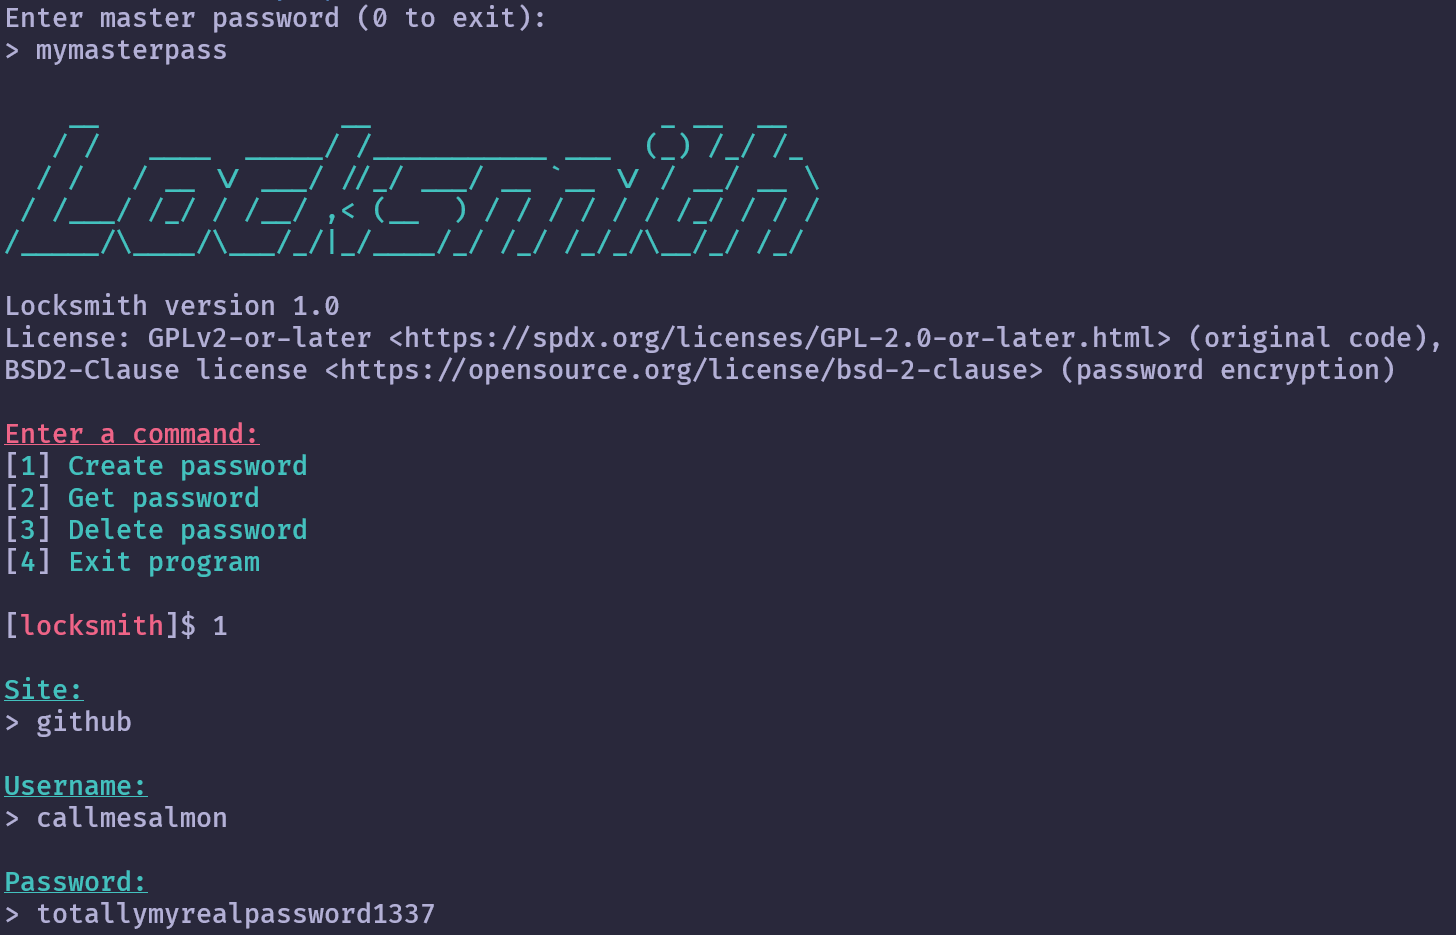
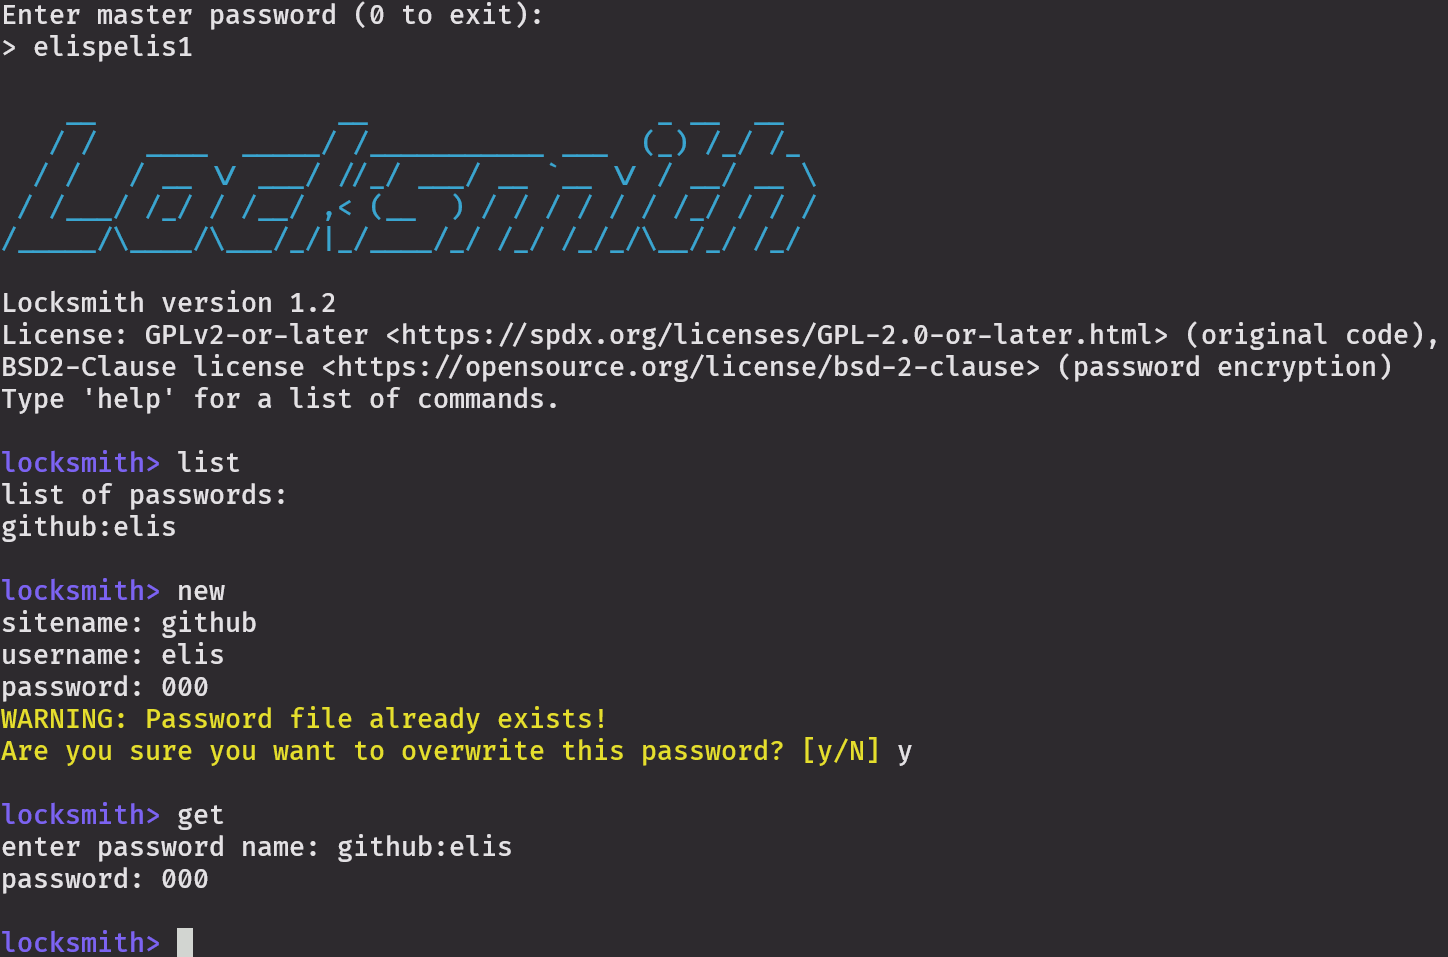
big formatting change (also add new listing command)

diff --git a/src/cli.c b/src/cli.c
@@ -12,9 +12,10 @@
 #include "colors.h"
 
 #define LIST_OF_COMMANDS          \
-"new - create new password\n"     \
-"get - get password\n"            \
-"del - delete password\n"      \
+"new  - create new password\n"    \
+"get  - get password\n"           \
+"del  - delete password\n"        \
+"list - list passwords\n"         \
 "exit - exit command interface\n" \
 "help - show this text\n"         \
 
@@ -40,6 +41,7 @@ typedef enum {
     CMD_NEW,
     CMD_GET,
     CMD_DEL,
+    CMD_LIST,
     CMD_EXIT,
     CMD_HELP,
 
@@ -51,6 +53,7 @@ CommandList get_cmd_value(char str[MAX_STRING_LEN]) {
     if (!strcmp(str, "new"))  return CMD_NEW;
     if (!strcmp(str, "get"))  return CMD_GET;
     if (!strcmp(str, "del"))  return CMD_DEL;
+    if (!strcmp(str, "list")) return CMD_LIST;
     if (!strcmp(str, "exit")) return CMD_EXIT;
     if (!strcmp(str, "help")) return CMD_HELP;
     if (!strcmp(str, ""))     return EMPTY;
@@ -78,16 +81,13 @@ int passname_handler(char *passname) {
 int cmd_create_password() {
     char site_name[MAX_STRING_LEN], user_name[MAX_STRING_LEN], password[MAX_STRING_LEN];
 
-    printf("\nSitename: ");
-    printf(LOCKSMITH_PROMPT2);
+    printf("sitename: ");
     safe_scanf(MAX_STRING_LEN, "%s", site_name);
 
-    printf("\nUsername: ");
-    printf(LOCKSMITH_PROMPT2);
+    printf("username: ");
     safe_scanf(MAX_STRING_LEN, "%s", user_name);
 
-    printf("\nPassword: ");
-    printf(LOCKSMITH_PROMPT2);
+    printf("password: ");
     safe_scanf(MAX_STRING_LEN, "%s", password);
 
     // This is not a good implementation. In reality we should just remove
@@ -114,9 +114,7 @@ int cmd_create_password() {
 int cmd_get_password() {
     char pass_name[MAX_STRING_LEN];
 
-    printf("\nWhat password do you want to get?\n");
-    list_passwords();
-    printf(LOCKSMITH_PROMPT2);
+    printf("enter password name: ");
     safe_scanf(MAX_STRING_LEN, "%s", pass_name);
 
     if (!passname_handler(pass_name)) {
@@ -125,7 +123,7 @@ int cmd_get_password() {
         return 1;
     }
 
-    printf_color(UNDERLINE_WHITE, "Password:");
+    printf("password:");
     printf(" %s\n", get_password(pass_name, key));
 
     return 0;
@@ -134,10 +132,7 @@ int cmd_get_password() {
 int cmd_delete_password() {
     char pass_name[MAX_STRING_LEN];
 
-    printf("\nWhat password do you want to delete?\n");
-    list_passwords();
-    printf(LOCKSMITH_PROMPT2);
-    printf(">");
+    printf("enter password name: ");
     safe_scanf(MAX_STRING_LEN, "%s", pass_name);
 
     if (!passname_handler(pass_name)) {
@@ -151,8 +146,15 @@ int cmd_delete_password() {
     return 0;
 }
 
+int cmd_list_passwords() {
+    printf("list of passwords:\n");
+    list_passwords();
+
+    return 0;
+}
+
 int cmd_interface(int *exit) {
-    printf(LOCKSMITH_PROMPT1);
+    printf(LOCKSMITH_PROMPT);
 
     char command[MAX_STRING_LEN];
     command[0] = '\0'; // Make sure command is empty.
@@ -168,6 +170,9 @@ int cmd_interface(int *exit) {
             break;
         case CMD_DEL:
             cmd_delete_password();
+            break;
+        case CMD_LIST:
+            cmd_list_passwords();
             break;
         case CMD_HELP:
             printf(LIST_OF_COMMANDS);

diff --git a/src/cli.h b/src/cli.h
@@ -5,8 +5,7 @@
 
 #include "crypto.h"
 
-#define LOCKSMITH_PROMPT1 PURPLE "\nlocksmith> " DEFAULT_COLOR
-#define LOCKSMITH_PROMPT2 "\n> "
+#define LOCKSMITH_PROMPT PURPLE "\nlocksmith> " DEFAULT_COLOR
 
 int cli_init();
 
@@ -16,6 +15,7 @@ int cli_warning(char *message);
 int cmd_create_password();
 int cmd_get_password();
 int cmd_delete_password();
+int cmd_list_passwords();
 
 int cmd_interface(int *exit);
 
